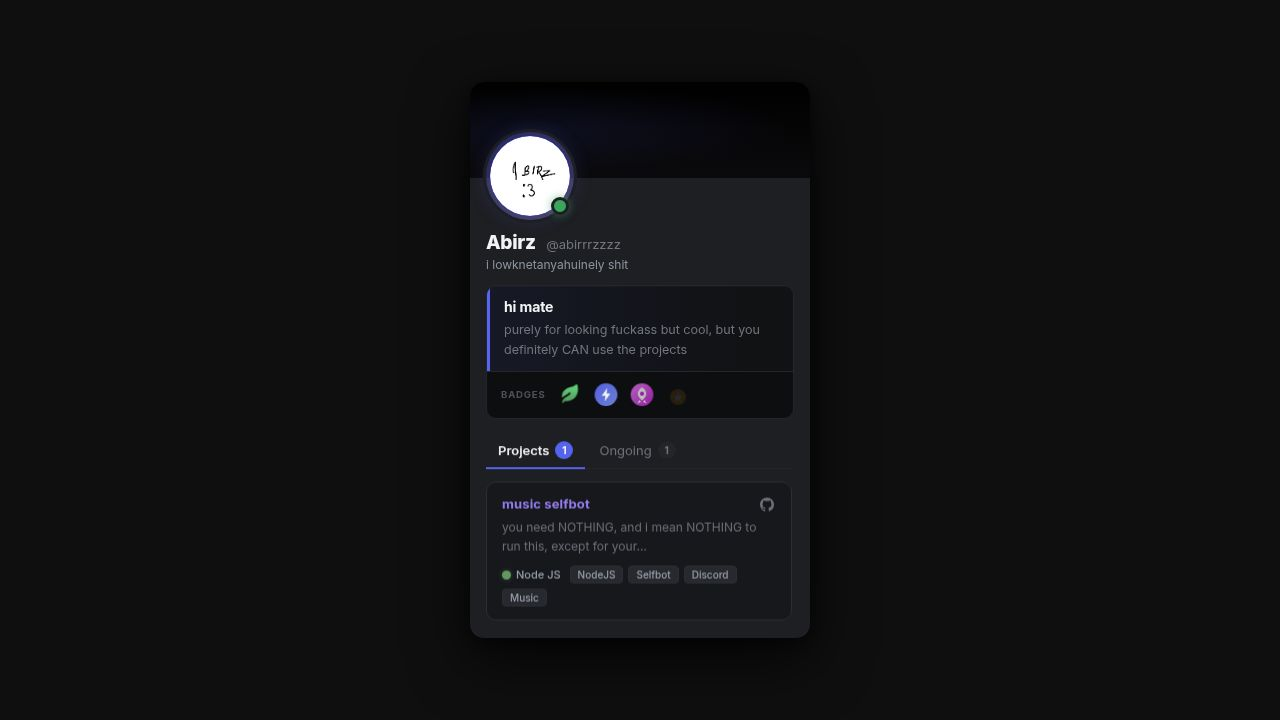
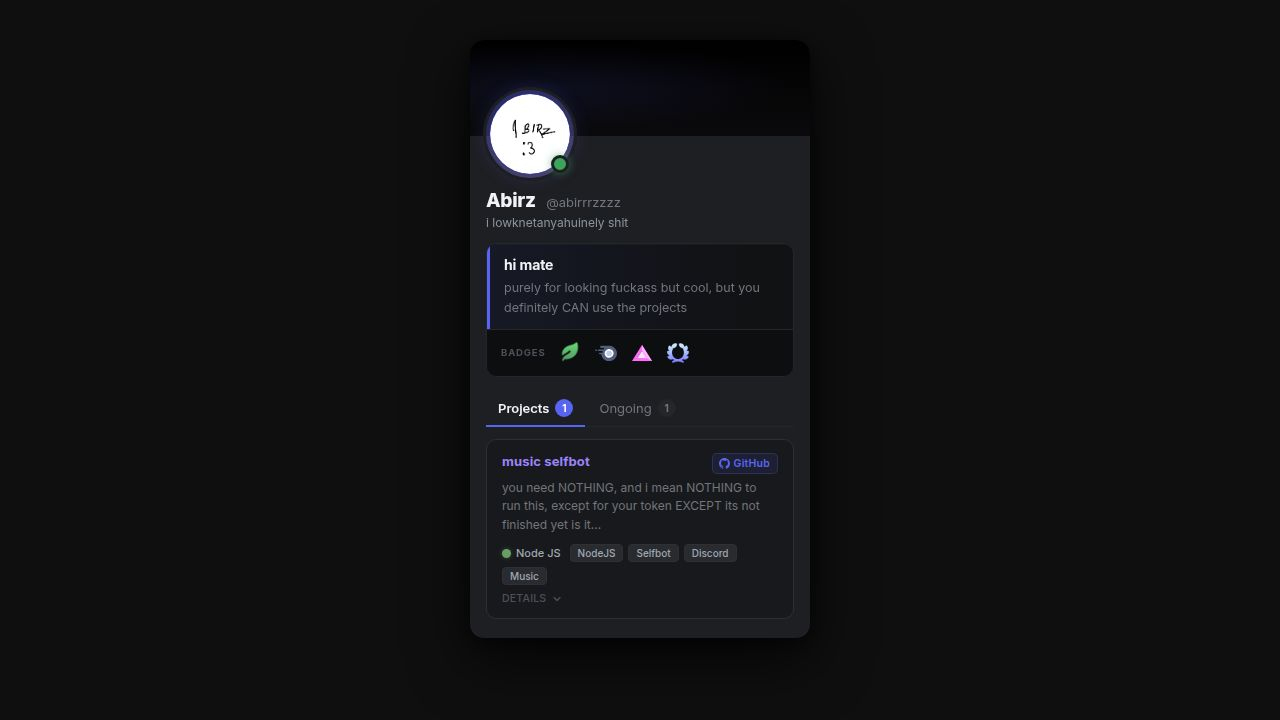
Improve page scrolling and project link appearance
Fixes broken scrolling within project cards, adds a GitHub icon to project links, and resolves build issues for static deployments by making PORT and BASE_PATH environment variables optional in vite.config.ts.

Replit-Commit-Author: Agent
Replit-Commit-Session-Id: 61403386-dfdb-4135-b8fc-02c50f662e38
Replit-Commit-Checkpoint-Type: full_checkpoint
Replit-Commit-Event-Id: 6c245040-4c40-4bdd-9eaf-dfb4c437e01a
Replit-Commit-Screenshot-Url: https://storage.googleapis.com/screenshot-production-us-central1/e6ea1736-e925-43bc-88d8-8714284dd7f0/61403386-dfdb-4135-b8fc-02c50f662e38/jvAWYmd
Replit-Helium-Checkpoint-Created: true

Changed region(s): [[0.375, 0.0917, 0.625, 0.8556], [0.5625, 0.1833, 0.6562, 0.2444]]

diff --git a/artifacts/discord-profile/index.html b/artifacts/discord-profile/index.html
@@ -15,9 +15,9 @@
       font-family: 'Inter', sans-serif;
       min-height: 100vh;
       display: flex;
-      align-items: center;
+      align-items: flex-start;
       justify-content: center;
-      padding: 24px;
+      padding: 40px 24px 48px;
       color: #dcddde;
     }
 
@@ -299,9 +299,6 @@
     .tab.active .tab-count { background: #5865f2; color: #fff; }
 
     .list {
-      max-height: 290px;
-      overflow-y: auto;
-      padding-right: 2px;
       display: flex;
       flex-direction: column;
       gap: 8px;
@@ -603,7 +600,7 @@ const MAX = 65;
 const clip = s => s.length > MAX ? s.slice(0, MAX) + '\u2026' : s;
 const $ = id => document.getElementById(id);
 const svg = (d, extra='') => `<svg width="13" height="13" viewBox="0 0 24 24" fill="none" stroke="currentColor" stroke-width="2" stroke-linecap="round" stroke-linejoin="round" ${extra}>${d}</svg>`;
-const ghIcon = `View on GitHub<svg width="10" height="10" viewBox="0 0 24 24" fill="none" stroke="currentColor" stroke-width="2.5" stroke-linecap="round" stroke-linejoin="round" style="display:block;flex-shrink:0"><path d="M18 13v6a2 2 0 0 1-2 2H5a2 2 0 0 1-2-2V8a2 2 0 0 1 2-2h6"/><polyline points="15 3 21 3 21 9"/><line x1="10" y1="14" x2="21" y2="3"/></svg>`;
+const ghIcon = `<svg width="11" height="11" viewBox="0 0 16 16" fill="currentColor" style="display:block;flex-shrink:0"><path d="M8 0C3.58 0 0 3.58 0 8c0 3.54 2.29 6.53 5.47 7.59.4.07.55-.17.55-.38 0-.19-.01-.82-.01-1.49-2.01.37-2.53-.49-2.69-.94-.09-.23-.48-.94-.82-1.13-.28-.15-.68-.52-.01-.53.63-.01 1.08.58 1.23.82.72 1.21 1.87.87 2.33.66.07-.52.28-.87.51-1.07-1.78-.2-3.64-.89-3.64-3.95 0-.87.31-1.59.82-2.15-.08-.2-.36-1.02.08-2.12 0 0 .67-.21 2.2.82.64-.18 1.32-.27 2-.27.68 0 1.36.09 2 .27 1.53-1.04 2.2-.82 2.2-.82.44 1.1.16 1.92.08 2.12.51.56.82 1.27.82 2.15 0 3.07-1.87 3.75-3.65 3.95.29.25.54.73.54 1.48 0 1.07-.01 1.93-.01 2.2 0 .21.15.46.55.38A8.013 8.013 0 0016 8c0-4.42-3.58-8-8-8z"/></svg>GitHub`;
 const extLink = svg('<path d="M18 13v6a2 2 0 0 1-2 2H5a2 2 0 0 1-2-2V8a2 2 0 0 1 2-2h6"/><polyline points="15 3 21 3 21 9"/><line x1="10" y1="14" x2="21" y2="3"/>');
 
 let profile, badges, projects, ongoing, activeTab = 'projects';

diff --git a/artifacts/discord-profile/vite.config.ts b/artifacts/discord-profile/vite.config.ts
@@ -4,27 +4,10 @@ import tailwindcss from "@tailwindcss/vite";
 import path from "path";
 import runtimeErrorOverlay from "@replit/vite-plugin-runtime-error-modal";
 
-const rawPort = process.env.PORT;
-
-if (!rawPort) {
-  throw new Error(
-    "PORT environment variable is required but was not provided.",
-  );
-}
-
+const rawPort = process.env.PORT ?? "3000";
 const port = Number(rawPort);
 
-if (Number.isNaN(port) || port <= 0) {
-  throw new Error(`Invalid PORT value: "${rawPort}"`);
-}
-
-const basePath = process.env.BASE_PATH;
-
-if (!basePath) {
-  throw new Error(
-    "BASE_PATH environment variable is required but was not provided.",
-  );
-}
+const basePath = process.env.BASE_PATH ?? "/";
 
 export default defineConfig({
   base: basePath,
